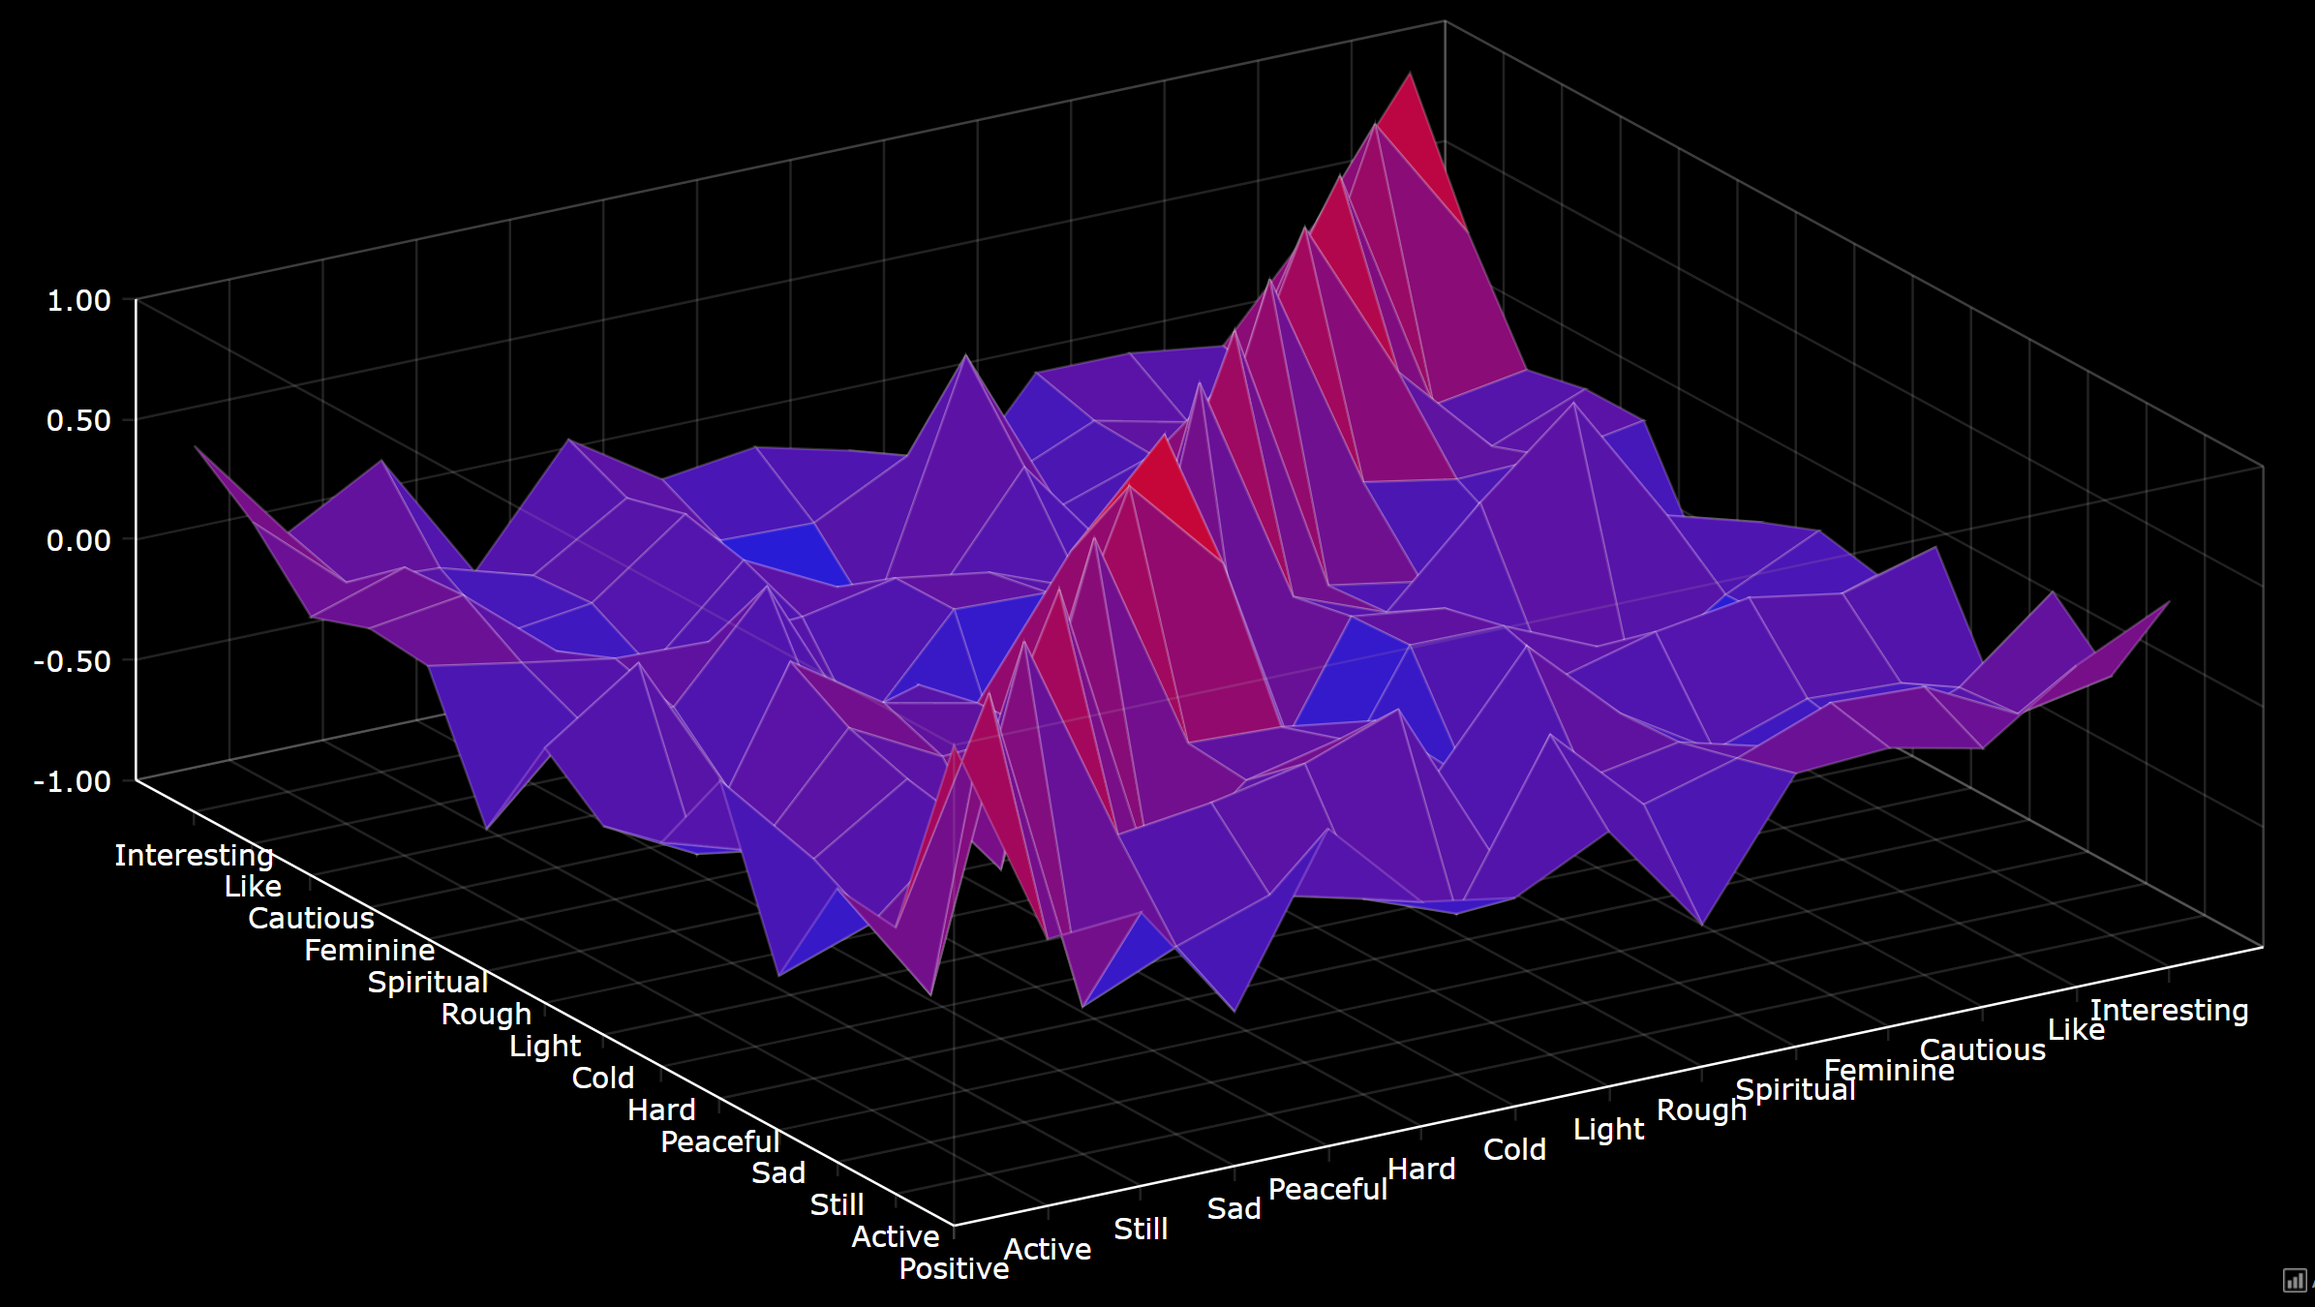
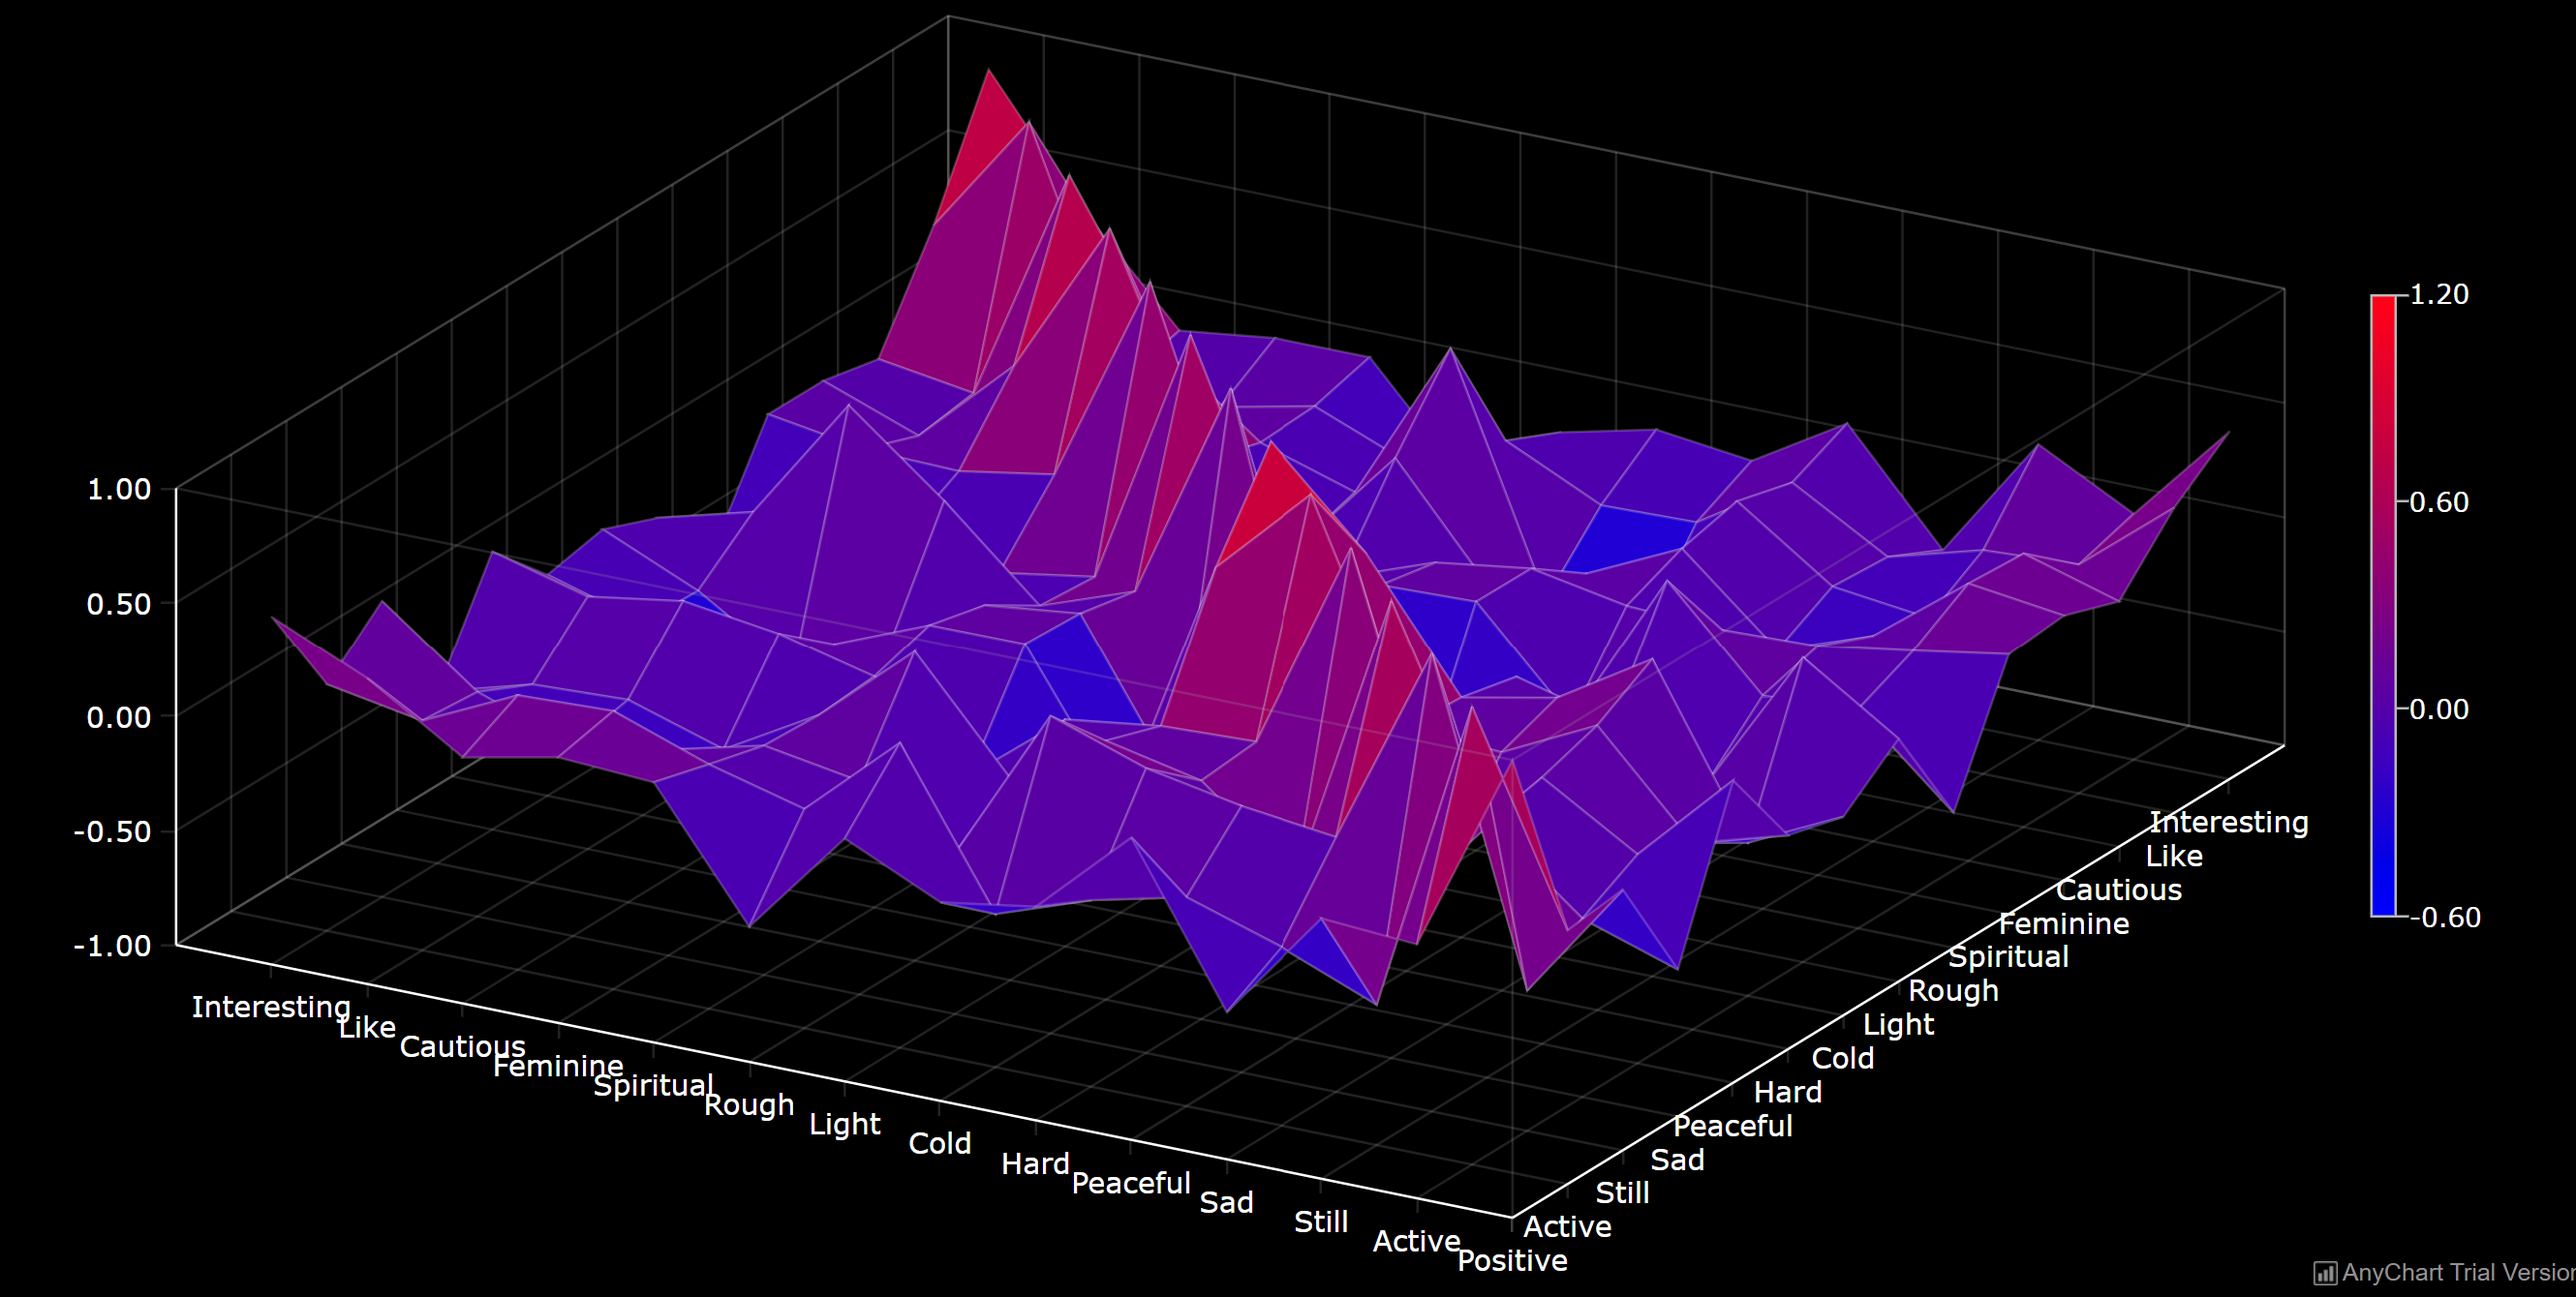
Fix

diff --git a/js/legends/colorLegend.js b/js/legends/colorLegend.js
@@ -1,6 +1,6 @@
 var legendMargin = {top: 60, right: 20, bottom: 30, left: 2};
 var legendWidth = 130;
-var colorScale = d3.scaleSequential(d3.interpolateRgbBasis(["red", "purple", "blue"])).domain([-1, 1]);
+var colorScale = d3.scaleSequential(d3.interpolateRgbBasis(["blue", "purple", "red"])).domain([-1, 1]);
 
 function createColorLegend(colorLegendContainer, svgDimension, tag) {  
  
